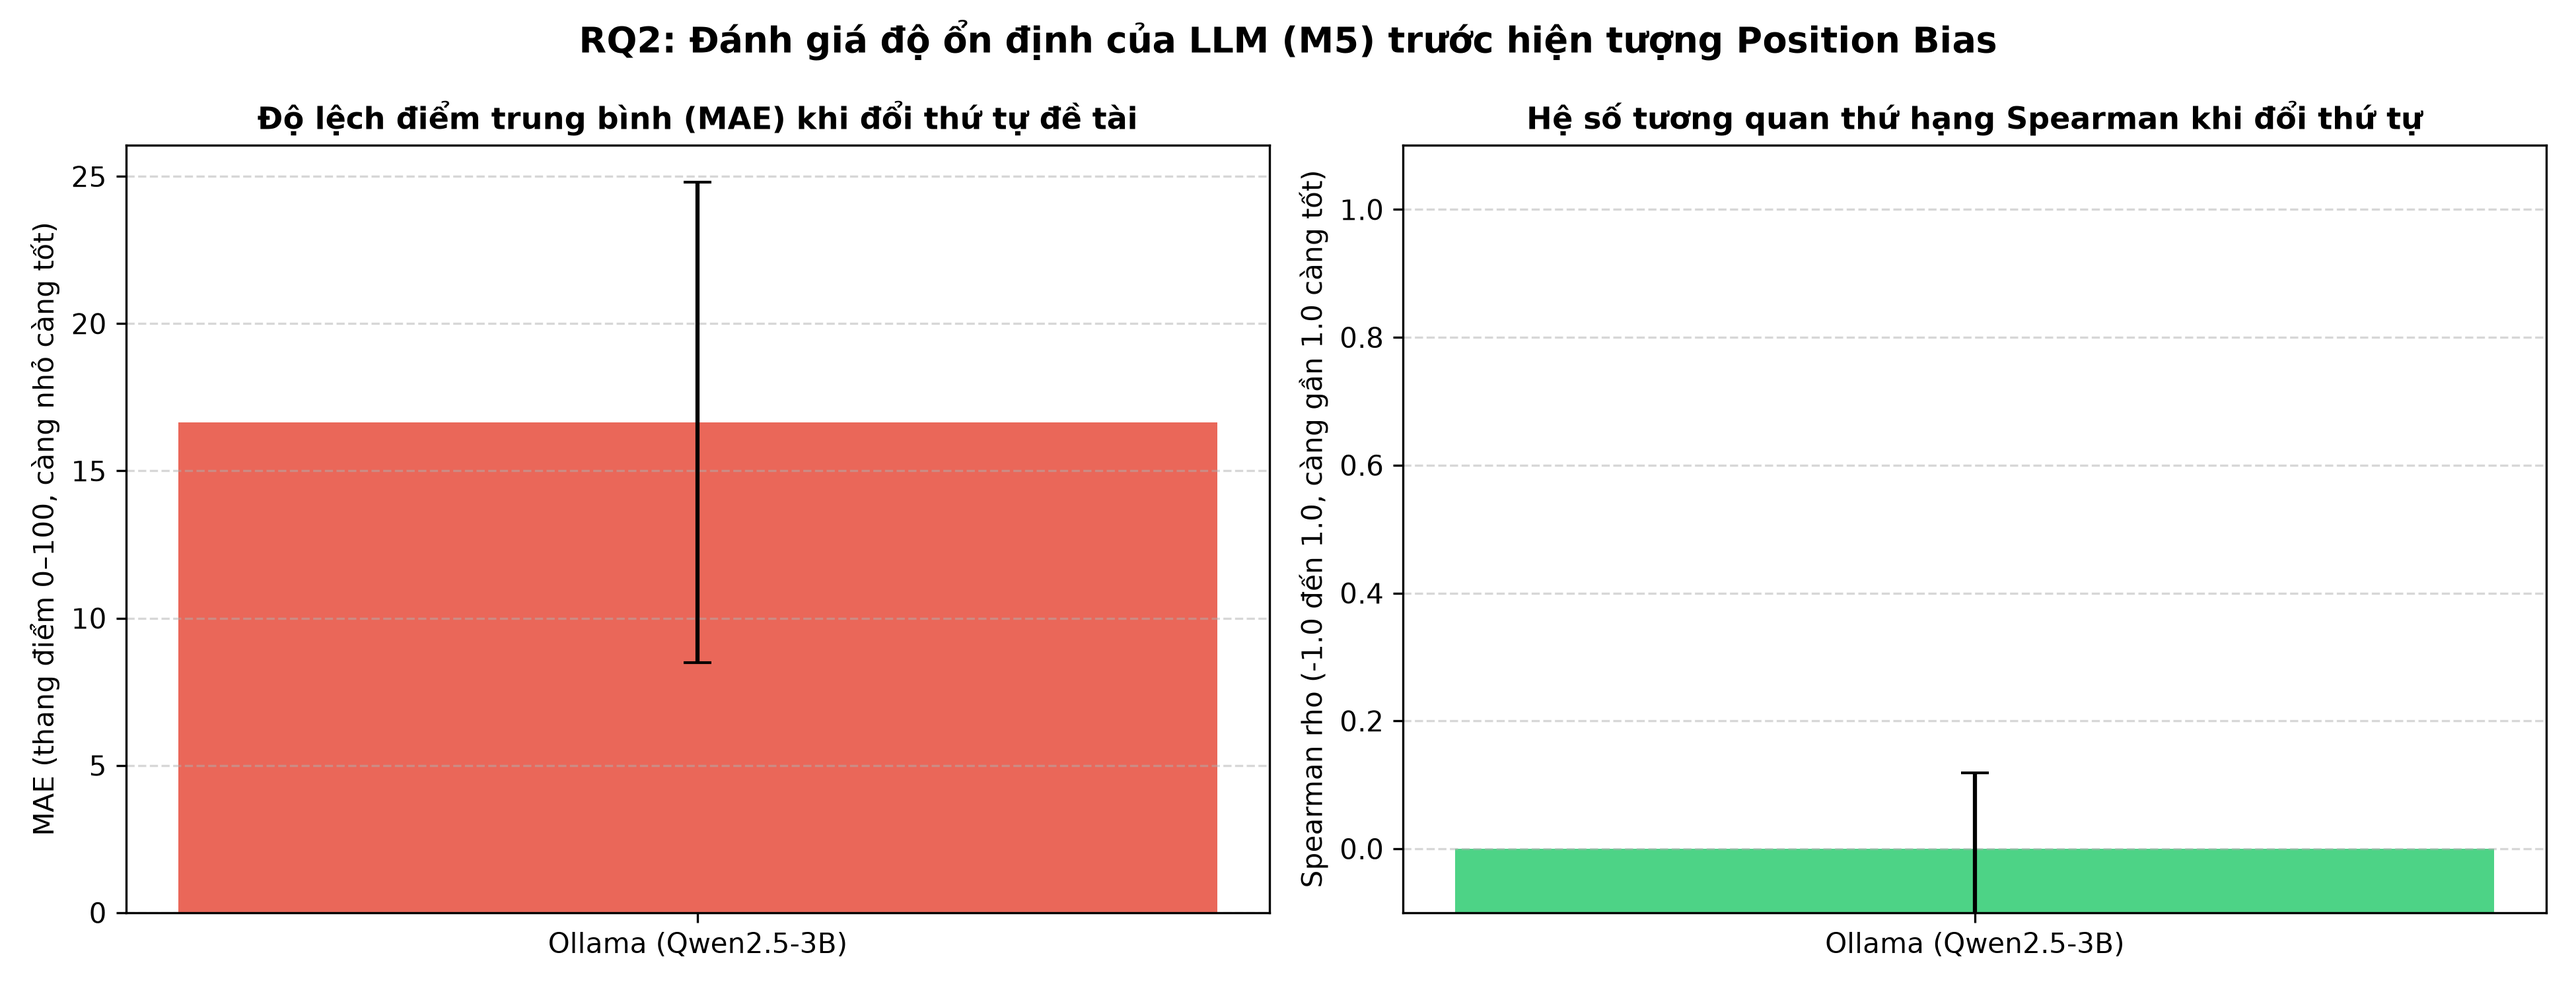
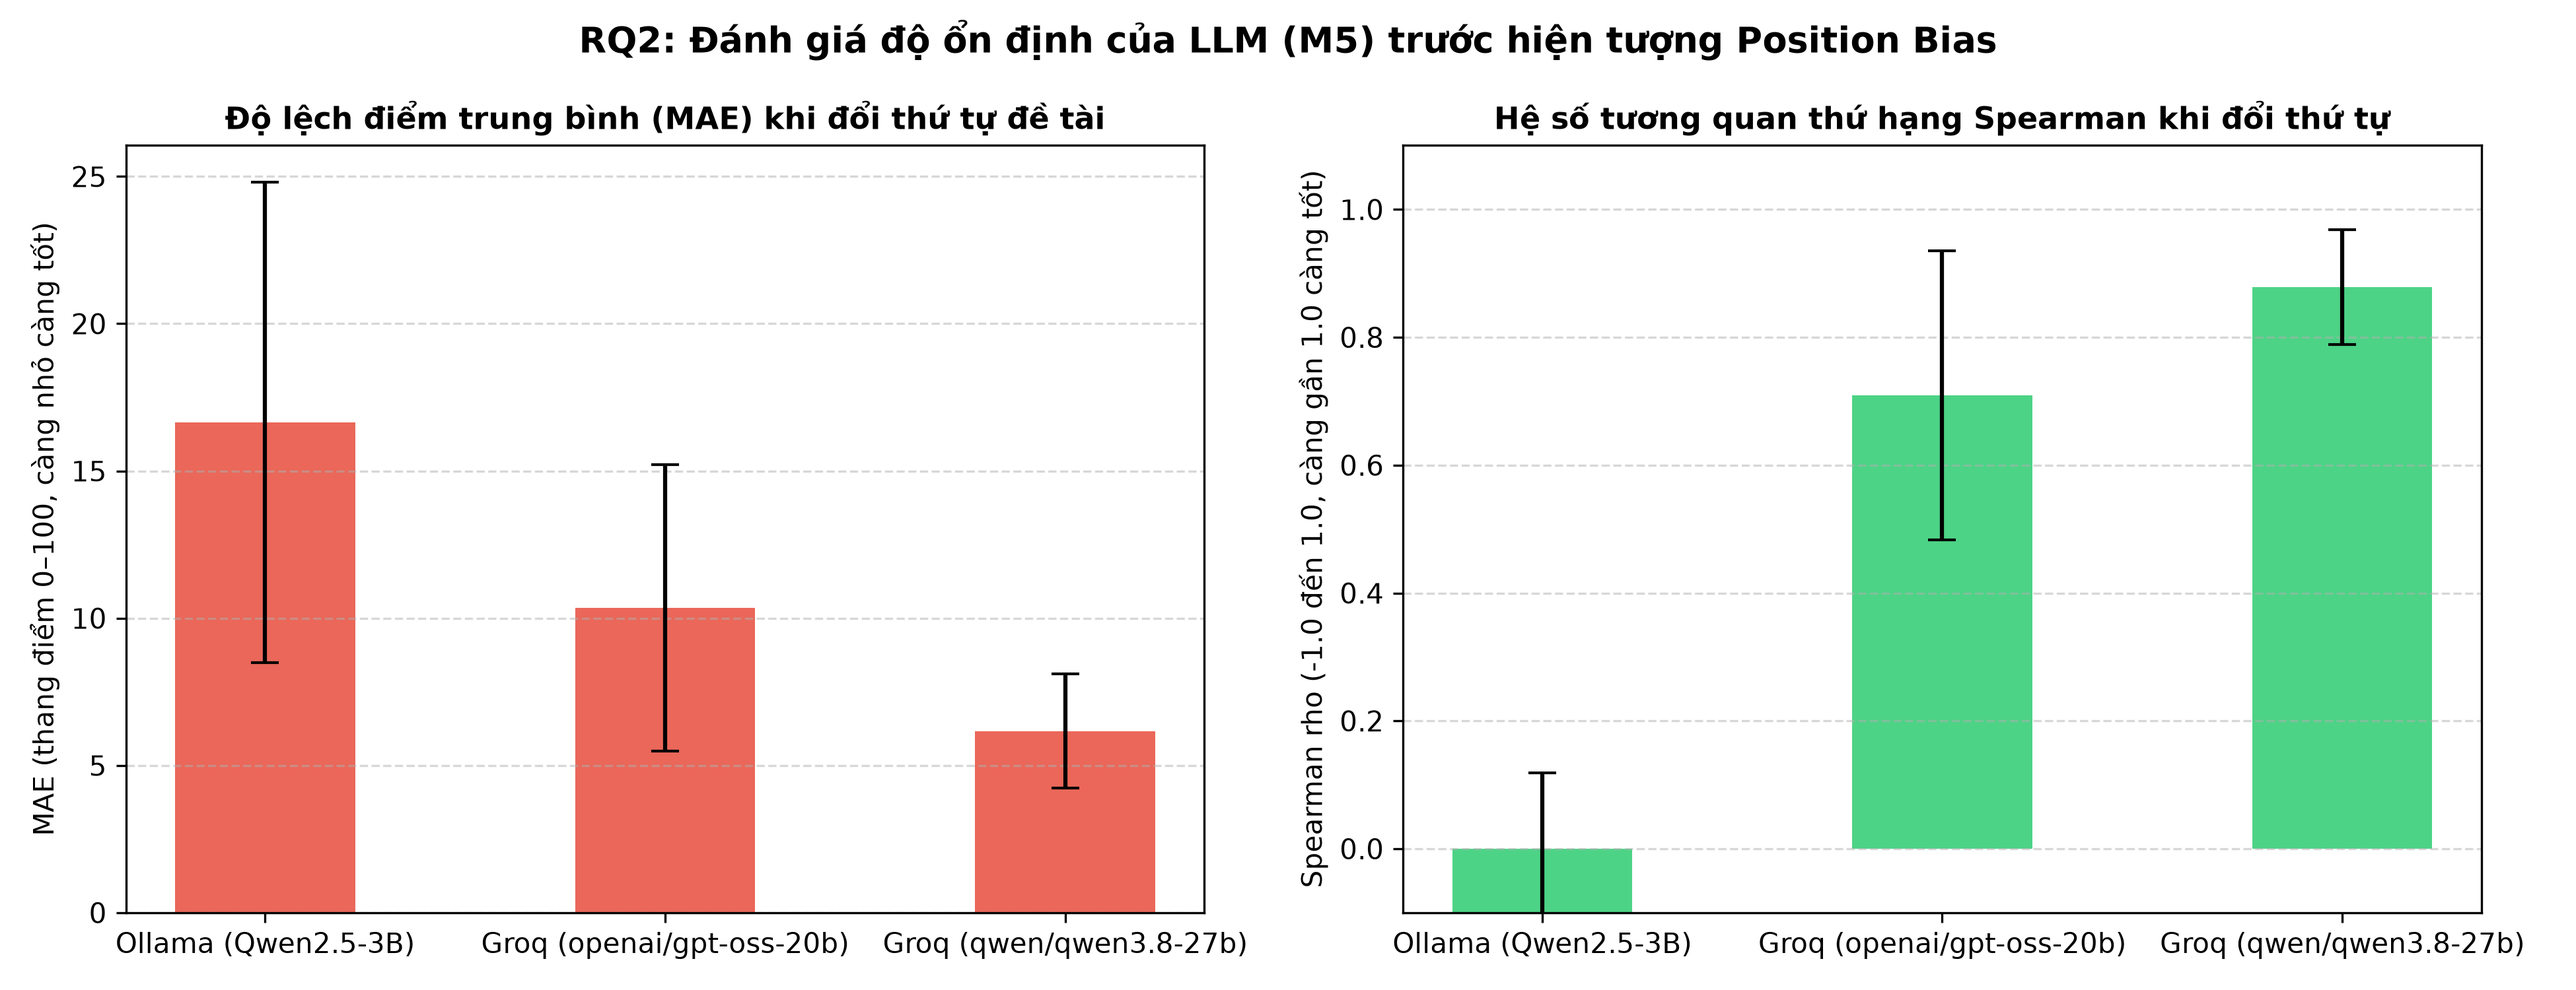
experiments: RQ2 đo thật 3 model (qwen2.5-3b, gpt-oss-20b, qwen3.8-27b), lưu sau mỗi model

diff --git a/experiments/rq2_llm_stability.py b/experiments/rq2_llm_stability.py
@@ -180,6 +180,20 @@ def run_stability_benchmark(
     }
 
 
+def _load_previous(csv_path: Path) -> list[dict]:
+    """Đọc các dòng RQ2 đã có (khi RQ2_KEEP=1) để đo bổ sung model mới mà không phải đo lại model cũ."""
+    if os.getenv("RQ2_KEEP") != "1" or not csv_path.exists():
+        return []
+    rows = []
+    with open(csv_path, encoding="utf-8") as f:
+        for r in csv.DictReader(f):
+            for k in ("Mean_MAE", "Std_MAE", "Mean_Spearman", "Std_Spearman"):
+                r[k] = float(r[k])
+            r["Num_Evaluated"] = int(r["Num_Evaluated"])
+            rows.append(r)
+    return rows
+
+
 def export_rq2_results(results: list[dict], csv_path: Path, png_path: Path) -> None:
     """Xuất bảng tổng hợp kết quả RQ2 ra CSV và vẽ biểu đồ trực quan hóa."""
     csv_path.parent.mkdir(parents=True, exist_ok=True)
@@ -261,7 +275,7 @@ def main() -> None:
     providers_to_test = []
 
     # 1. Ollama (nếu có)
-    ollama_ok = is_ollama_available()
+    ollama_ok = is_ollama_available() and os.getenv("RQ2_SKIP_OLLAMA") != "1"
     if ollama_ok:
         providers_to_test.append(
             {
@@ -289,39 +303,44 @@ def main() -> None:
             }
         )
 
-    # 3. OmniRoute: cùng model gpt-oss-120b qua nhiều nhà cung cấp (Cloudflare → Tinfoil → Groq), tự chuyển khi hết lượt
+    # 3. OmniRoute: mỗi model trong RQ2_MODELS (provider/model của OmniRoute) là một dòng so sánh;
+    #    mặc định gpt-oss-120b (model M5) qua combo. Mọi lượt đều là gọi API thật.
     omni_key = os.getenv("OMNIROUTE_API_KEY", "")
     if omni_key:
-        omni_model = os.getenv("OMNIROUTE_MODEL", "gptoss120")
-        providers_to_test.append(
-            {
-                "provider": "omniroute",
-                "model": omni_model,
-                "api_key": omni_key,
-                "label": f"gpt-oss-120b qua OmniRoute ({omni_model})",
-                "notes": "Cổng OmniRoute cục bộ, combo nhiều nhà cung cấp cùng model",
-            }
-        )
+        for omni_model in [m.strip() for m in os.getenv("RQ2_MODELS", "gptoss120").split(",") if m.strip()]:
+            providers_to_test.append(
+                {
+                    "provider": "omniroute",
+                    "model": omni_model,
+                    "api_key": omni_key,
+                    "label": omni_model,
+                    "notes": "Gọi qua cổng OmniRoute cục bộ",
+                }
+            )
 
-    # 4. Groq (chỉ khi có khoá Groq riêng)
+    # 4. Groq gọi thẳng (OmniRoute → Groq bị tường lửa Groq chặn với prompt dài, 403): mỗi model trong RQ2_GROQ_MODELS
     groq_key = os.getenv("GROQ_API_KEY", "")
     if groq_key:
-        providers_to_test.append(
-            {
-                "provider": "groq",
-                "model": os.getenv("GROQ_MODEL", "openai/gpt-oss-120b"),
-                "api_key": groq_key,
-                "label": "Groq (" + os.getenv("GROQ_MODEL", "openai/gpt-oss-120b") + ")",
-                "notes": "Gọi trực tiếp API Groq Cloud",
-            }
-        )
-    else:
-        print("Chưa có khoá Groq (GROQ_API_KEY) → bỏ qua Groq. KHÔNG dùng số mô phỏng.")
+        for gm in [m.strip() for m in os.getenv("RQ2_GROQ_MODELS", "openai/gpt-oss-120b").split(",") if m.strip()]:
+            providers_to_test.append(
+                {
+                    "provider": "groq",
+                    "model": gm,
+                    "api_key": groq_key,
+                    "label": f"Groq ({gm})",
+                    "notes": "Gọi trực tiếp API Groq Cloud",
+                }
+            )
 
-    all_results = []
+    all_results = _load_previous(RESULTS_DIR / "rq2_llm_stability.csv")  # model đã đo ở lượt trước được giữ lại
     for p_cfg in providers_to_test:
         res = run_stability_benchmark(students, topics, p_cfg, k=args.topics_per_student)
-        all_results.append(res)
+        if res["Num_Evaluated"] == 0:
+            print(f"   (bỏ qua {res['Provider_Label']}: không đo được SV nào — API lỗi/hết hạn mức)")
+            continue
+        all_results = [r for r in all_results if r["Model"] != res["Model"]] + [res]
+        # lưu ngay sau mỗi model: lượt chạy bị dừng giữa chừng không làm mất model đã đo xong
+        export_rq2_results(all_results, RESULTS_DIR / "rq2_llm_stability.csv", RESULTS_DIR / "rq2_llm_stability.png")
 
     print("\n--- BẢNG TỔNG HỢP KẾT QUẢ RQ2 ---")
     for r in all_results:

diff --git a/experiments/README.md b/experiments/README.md
@@ -97,9 +97,11 @@ python -m experiments.rq2_llm_stability --students 30 --topics-per-student 3
 | Nhà cung cấp | Mô hình | Số SV | MAE (TB ± ĐLC) | Spearman ρ (TB ± ĐLC) |
 | --- | --- | --- | --- | --- |
 | Ollama (Qwen2.5-3B) | `qwen2.5:3b` | 29 | 16.65 ± 8.16 | -0.180 ± 0.298 |
+| Groq (openai/gpt-oss-20b) | `openai/gpt-oss-20b` | 30 | 10.34 ± 4.86 | 0.710 ± 0.226 |
+| Groq (qwen/qwen3.8-27b) | `qwen/qwen3.8-27b` | 9 | 6.17 ± 1.94 | 0.878 ± 0.090 |
 <!-- /BANG:rq2 -->
 
-> Ngày 05/10 mới đo được Ollama (chạy tại máy). Groq gpt-oss-120b đo ngày 07/10 khi hạn mức hồi (bảng tự cập nhật).
+> Mọi dòng là gọi API thật; "Số SV" là số SV đo được (API miễn phí giới hạn lượt/phút nên có model đo được ít hơn). Nemotron-550B (OpenRouter) không phản hồi kịp lượt nào nên không có dòng. gpt-oss-120b (model M5) đo bổ sung khi hạn mức Groq hồi.
 
 > Mọi dòng trong bảng RQ2 là lượt gọi API thật. Không có số liệu mô phỏng: provider nào thiếu khoá thì bị bỏ qua, không thay bằng số giả.
 
